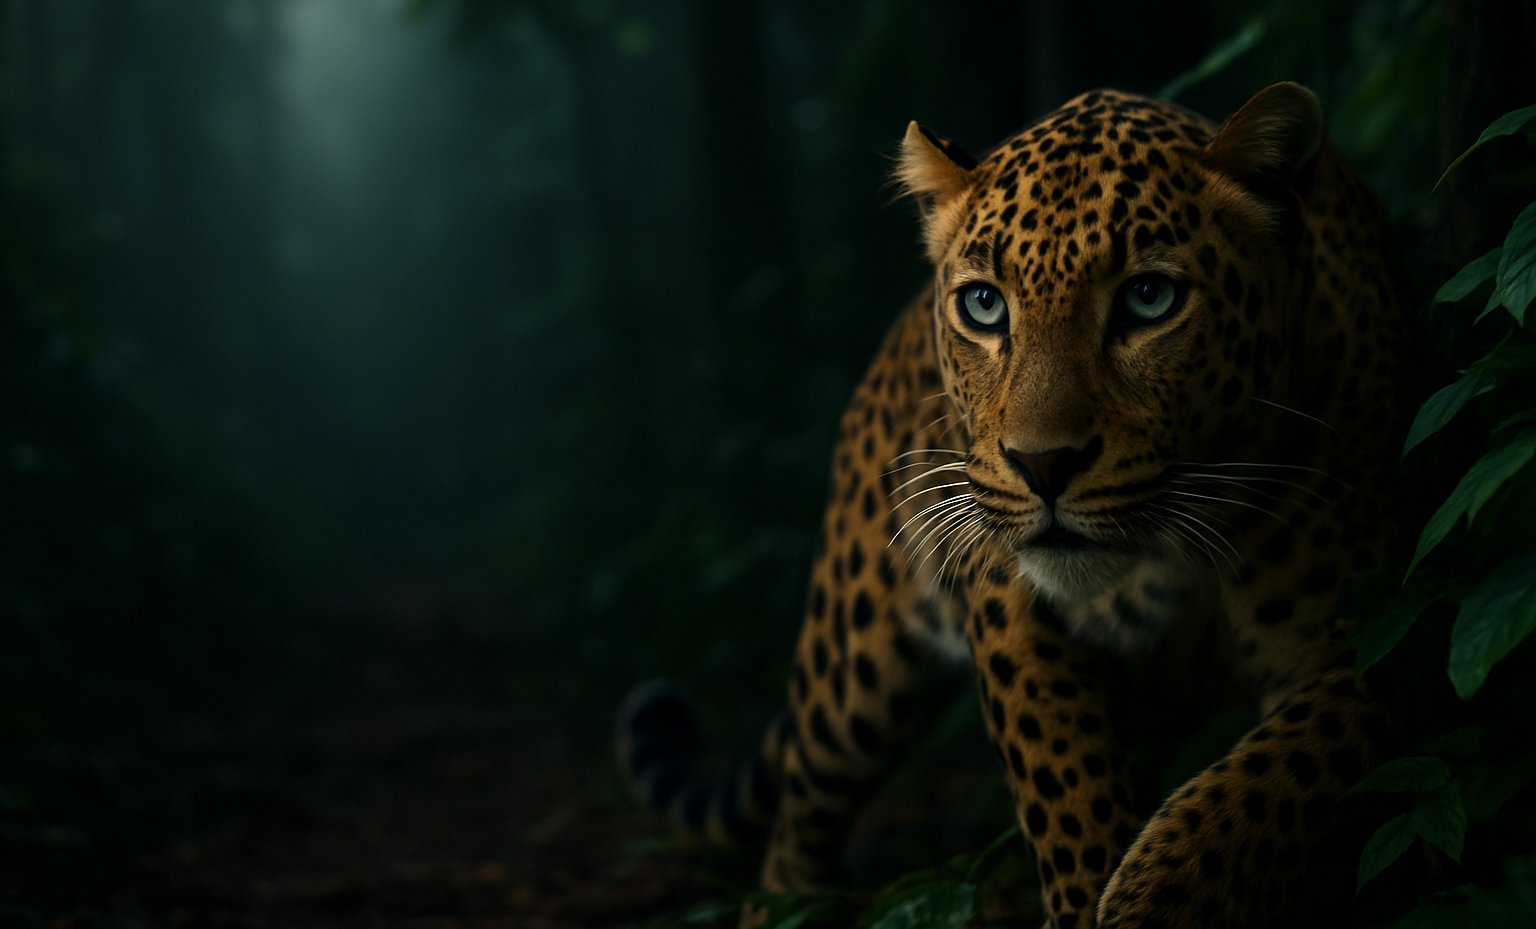
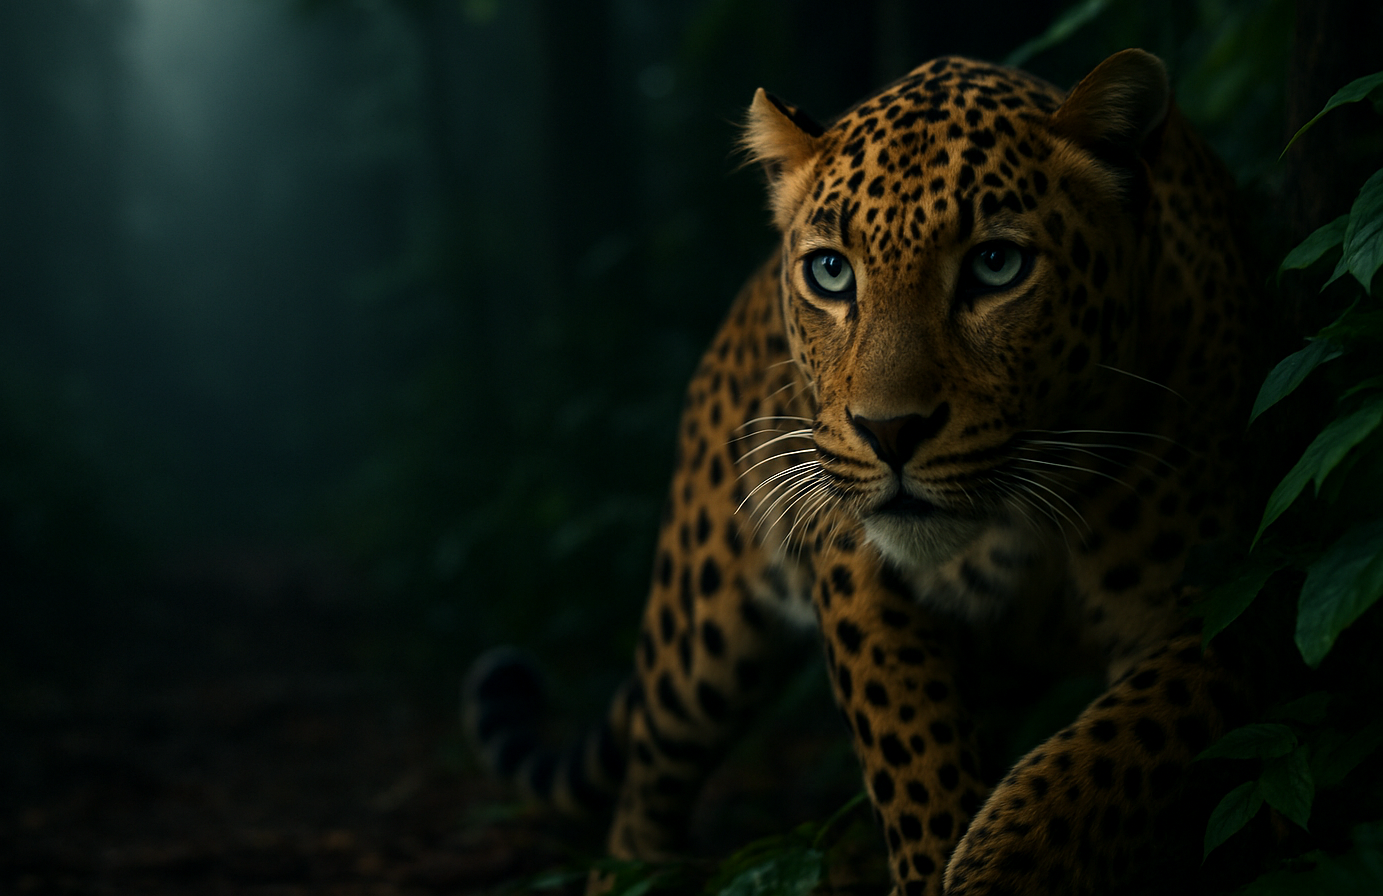
base content of the HERO section

diff --git a/app/Components/Hero.tsx b/app/Components/Hero.tsx
@@ -1,14 +1,44 @@
 import React from "react";
+import Image from "next/image";
 
 function Hero() {
   return (
     <div
-      className="w-screen h-screen absolute top-0 "
-      style={{ backgroundImage: "url('/images/hero.png')" }}
+      className="w-screen h-screen absolute top-0  text-secondary "
+      style={{
+        backgroundImage: "url('/images/hero.webp')",
+        backgroundSize: "cover",
+        backgroundRepeat: "no-repeat",
+      }}
     >
-      <div className="flex justify-between items-end absolute w-full bottom-0 md:px-12 h-full md:py-6">
-        <div className="w-1/3 h-fit p-4 bg-amber-200">text</div>
-        <div className="w-fit h-fit p-4 bg-amber-200">review</div>
+      <div className="flex justify-between items-end absolute w-full bottom-0 md:px-12 h-full md:py-8">
+        <div className="w-2/5 h-fit  flex flex-col gap-2">
+          <h1 className="text-7xl font-display font-semibold tracking-wide leading-18">
+            Experience the <span className="text-accent">Wild</span> Like Never
+            Before
+          </h1>
+          <p className="text-md pr-24">
+            Join <span className="text-accent"> Nimal Safari </span>for
+            unforgettable wildlife adventures in{" "}
+            <span className="text-accent">Yala, Udawalawe, Bundala,</span> and
+            more. Based in Tissamaharama , your gateway to Sri Lanka’s best
+            national parks.
+          </p>
+          <div className="px-8 p-2 bg-accent w-fit h-fit text-muted font-medium rounded-lg mt-4">
+            Book Your Safari Now
+          </div>
+        </div>
+        <div className="w-fit h-fit p-2 bg-secondary/15 text-primary backdrop-opacity-10 backdrop-blur-2xl rounded-md flex flex-col gap-2">
+          <div className="text-secondary flex justify-between">
+            <Image
+              src="/images/traveladvisor.png"
+              width={24}
+              height={24}
+              alt="traveladvisorlog"
+            />
+            <h2></h2>
+          </div>
+        </div>
       </div>
     </div>
   );
